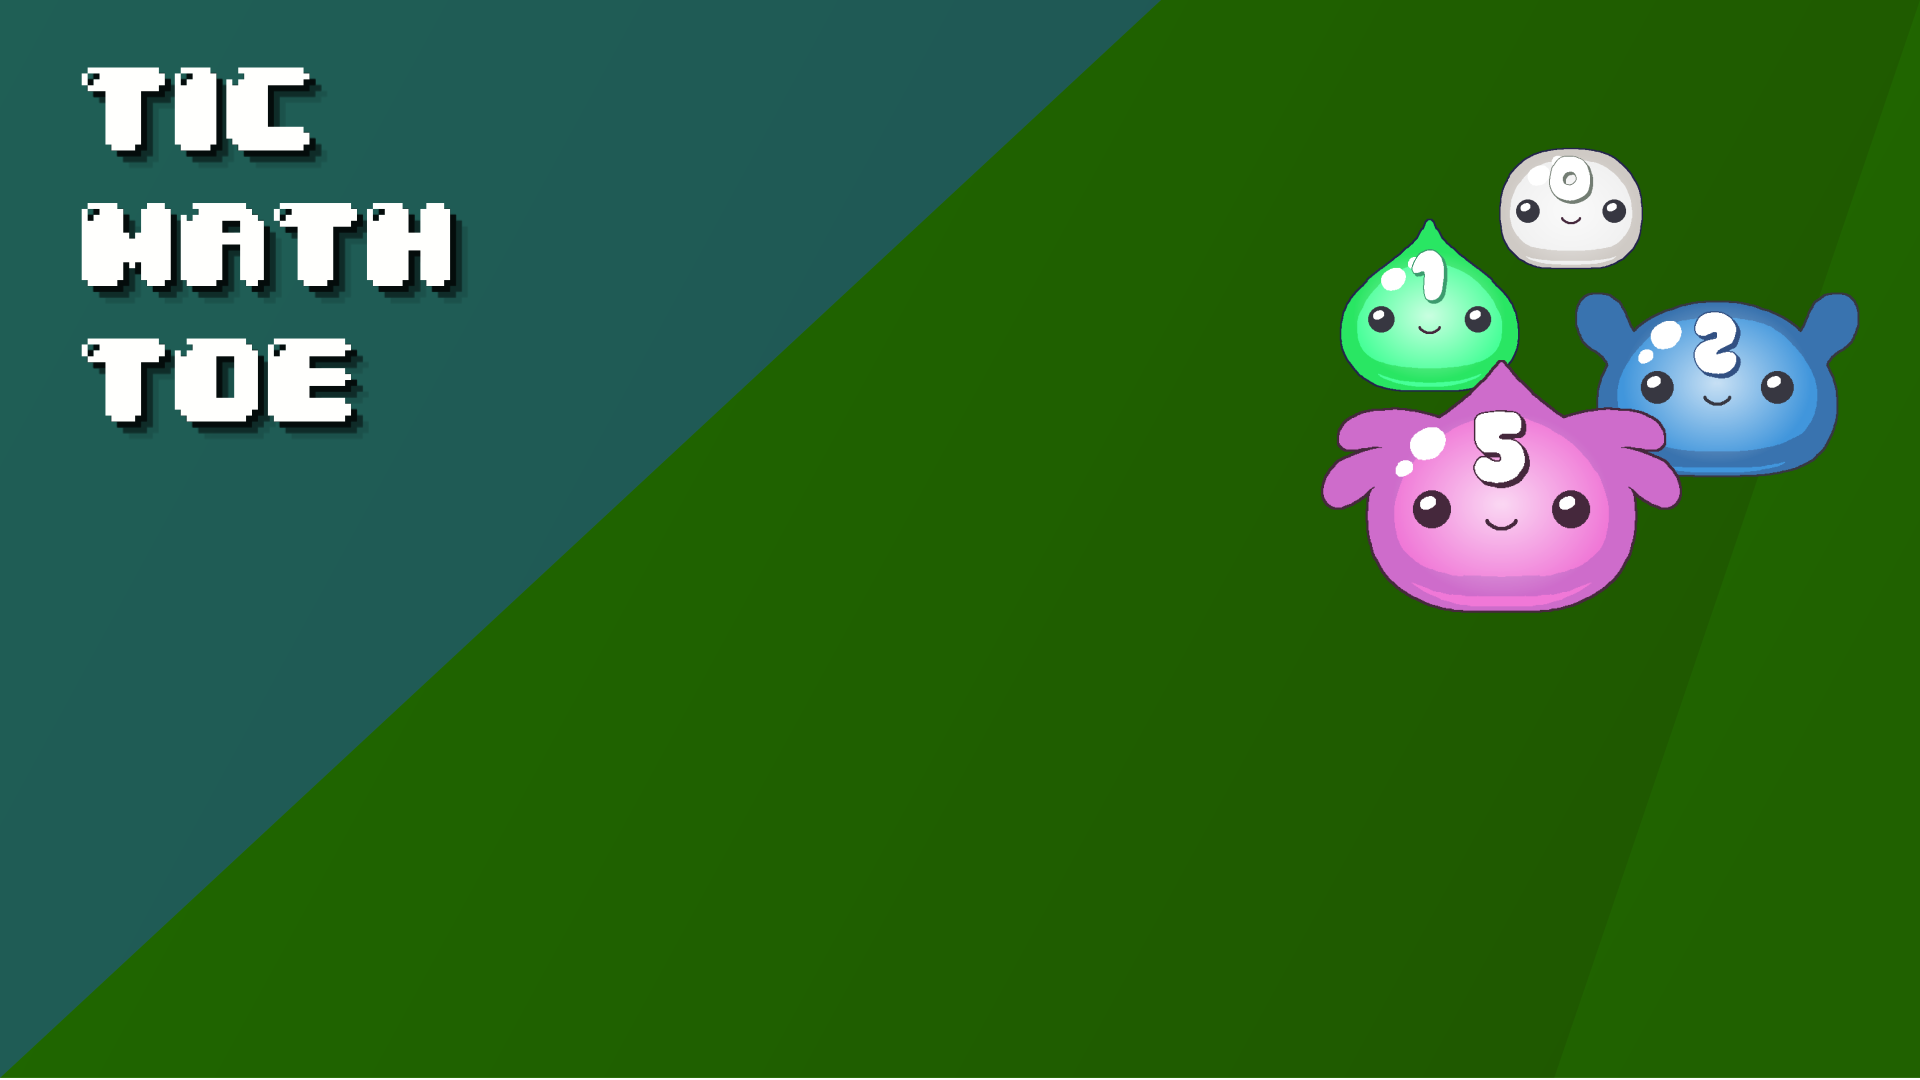
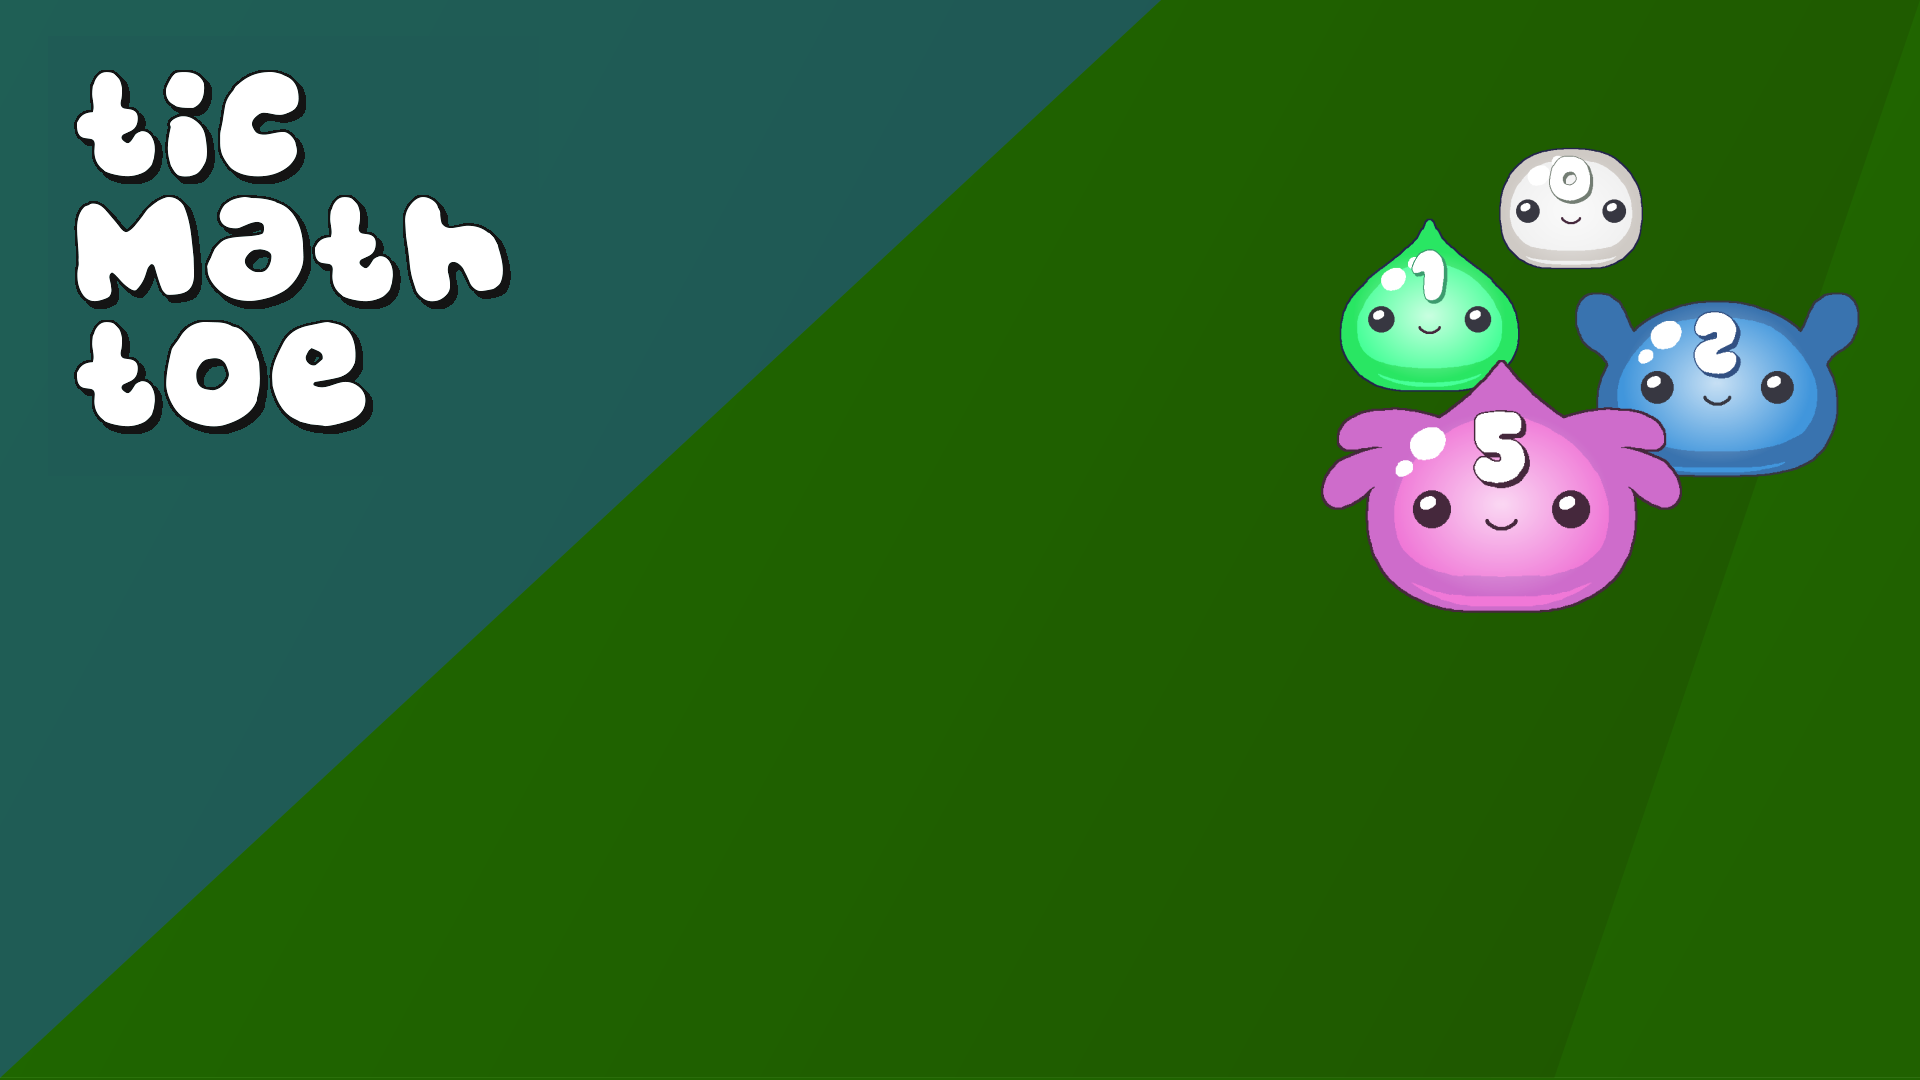
Adição dos Boards

Changed region(s): [[0.0312, 0.0611, 0.2812, 0.3972]]

diff --git a/style.css b/style.css
@@ -1,5 +1,8 @@
 #player1, #player2{
-    background-color: orange;
+    background-image: url(images/board.png);
+    background-repeat: no-repeat;
+    background-size: cover;
+    position: relative;
     height: 16vh;
     min-width: 60vh;
 }
@@ -7,7 +10,11 @@
 
 #game_area{
     background-color: lightgray;
+    background-image: url(images/ticmath1.png);
     height: 60vh;
+    background-repeat: no-repeat;
+    background-size: cover;
+    position: relative;
 }
 
 
@@ -100,6 +107,12 @@ body{
     background-size: contain;
     background-position: center;
     padding: 0;
+    
+}
+
+#player1_monsters_slot0, #player1_monsters_slot1, #player1_monsters_slot2, #player1_monsters_slot3, #player1_monsters_slot4, #player1_monsters_slot5, #player1_monsters_slot6, #player1_monsters_slot7, #player2_monsters_slot0, #player2_monsters_slot1, #player2_monsters_slot2, #player2_monsters_slot3, #player2_monsters_slot4, #player2_monsters_slot5, #player2_monsters_slot6, #player2_monsters_slot7 {
+    height: 9vh;
+    margin-top: -19px;
 }
 
 
@@ -136,8 +149,8 @@ body{
 
 #player1_monsters_slot, #player2_monsters_slot{
     width: 80%;
-    height: 90%;
-    background-color: #F7910F;
+    height: 80%;
+    background-color:rgba(255,255,255,0.3);
 }
 
 
